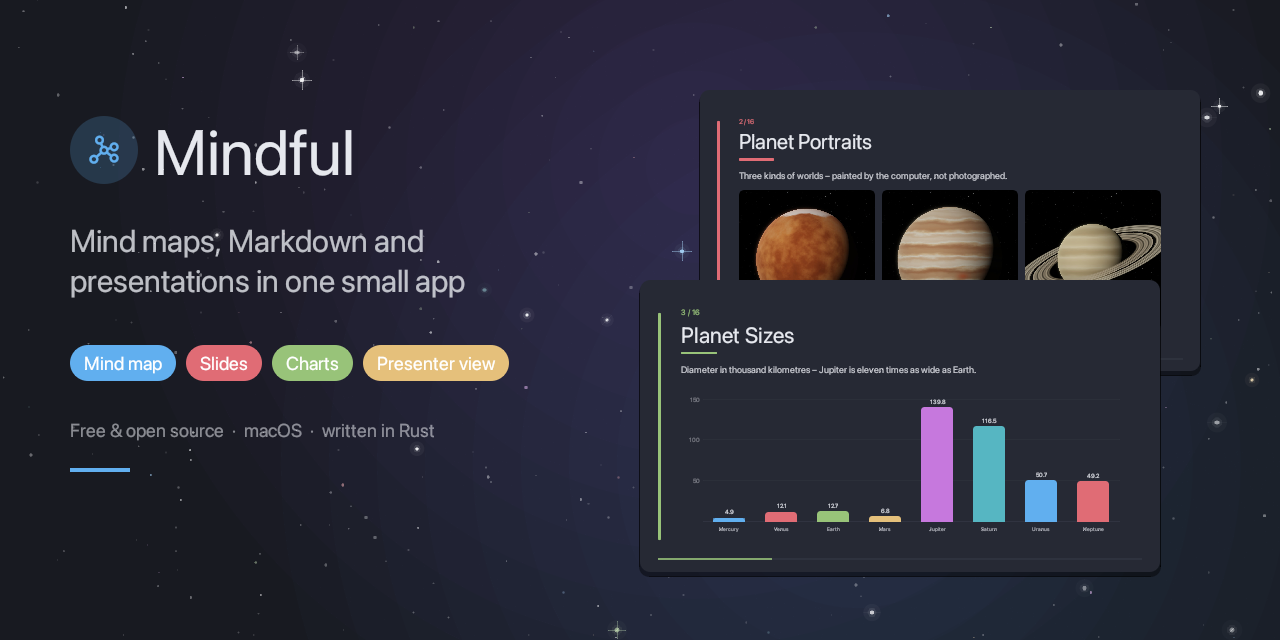
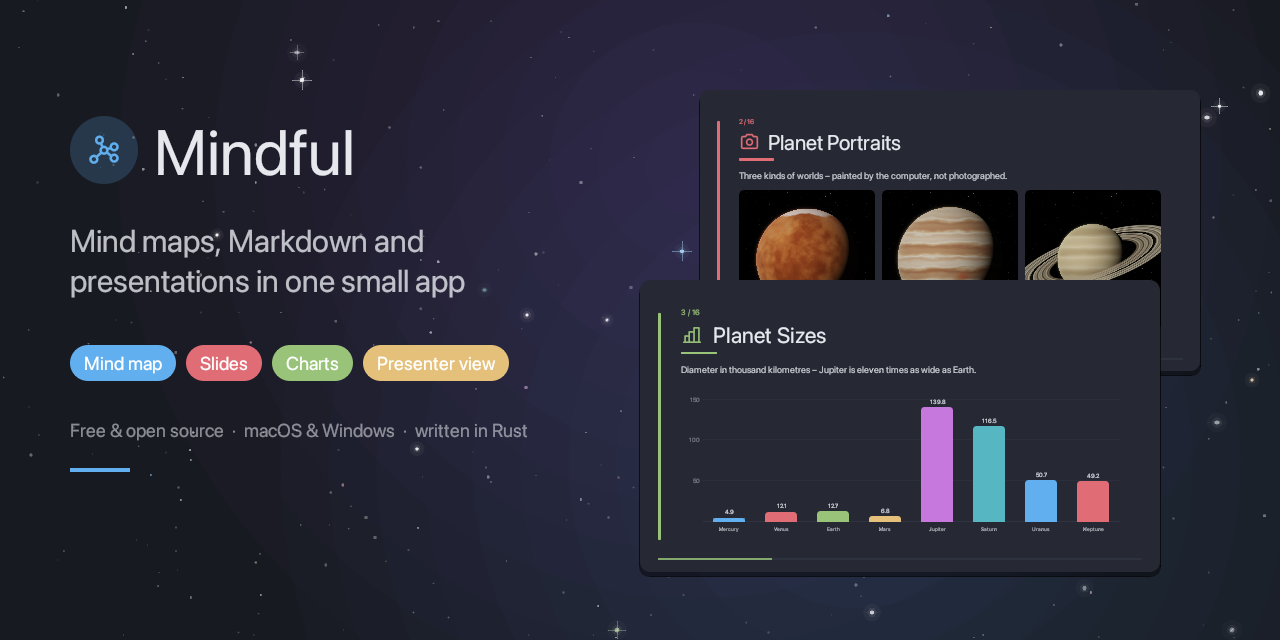
Social preview: macOS & Windows

Changed region(s): [[0.5625, 0.1875, 0.7188, 0.25], [0.5312, 0.5, 0.6562, 0.5625], [0.2188, 0.6562, 0.4062, 0.6875]]

diff --git a/src/snapshot.rs b/src/snapshot.rs
@@ -290,7 +290,7 @@ mod tests {
                         p.text(
                             Pos2::new(x, 430.0),
                             Align2::LEFT_CENTER,
-                            "Free & open source  ·  macOS  ·  written in Rust",
+                            "Free & open source  ·  macOS & Windows  ·  written in Rust",
                             FontId::proportional(19.0),
                             theme.text.gamma_multiply(0.55),
                         );
